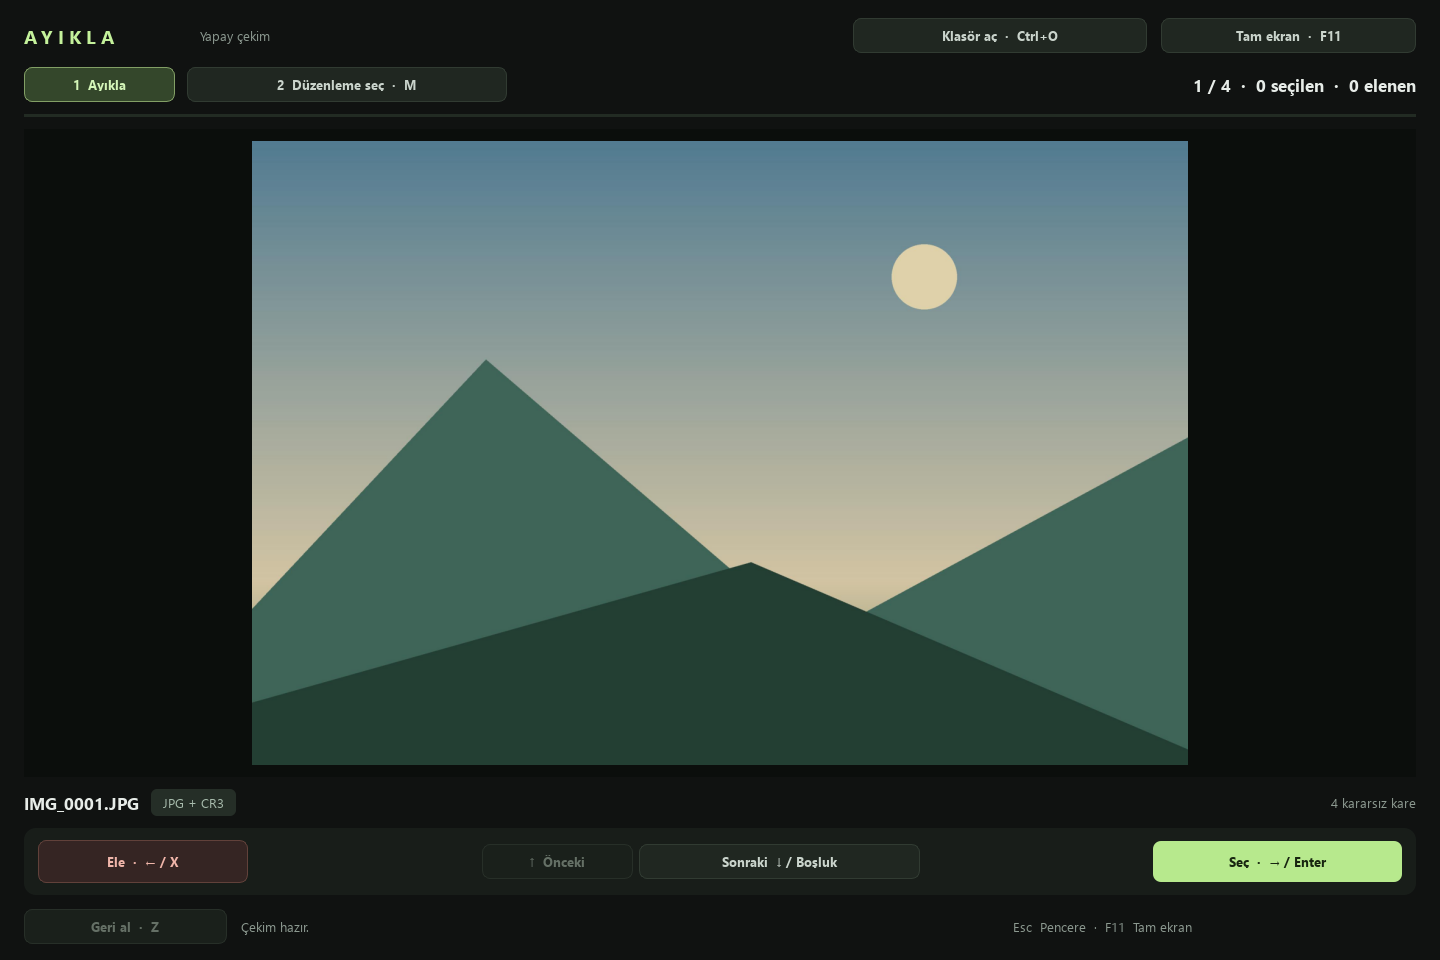
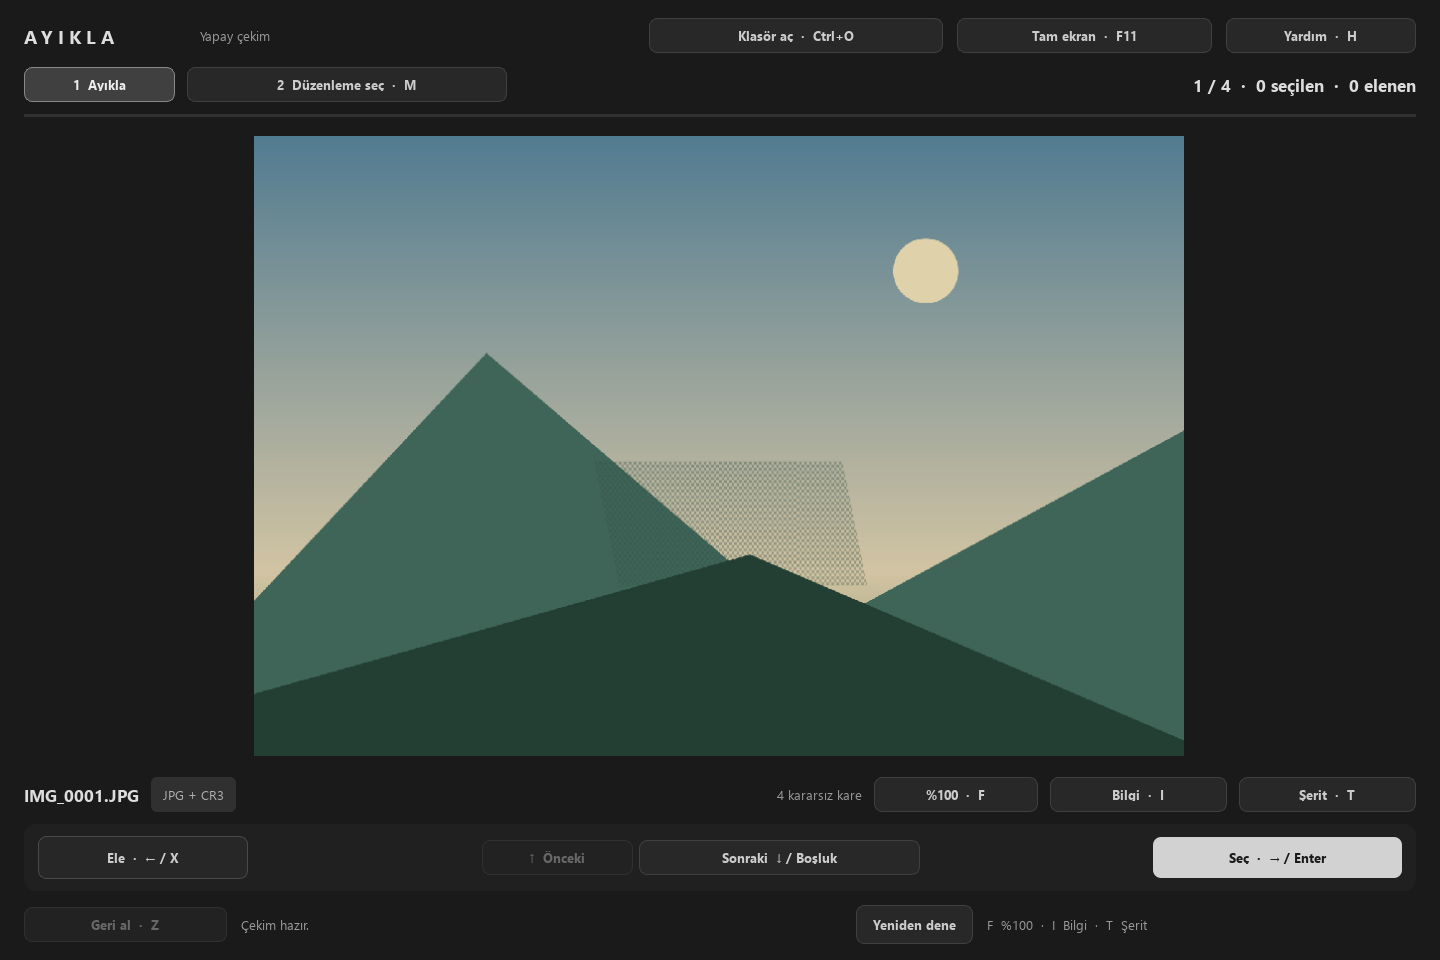
docs: publish v1.1 benchmark comparison and verified UI screenshots

diff --git a/RAPOR.md b/RAPOR.md
@@ -1,25 +1,47 @@
-# Ayikla V1 — teslim raporu
+# Ayikla 1.1 — sonuç ve ölçümler
 
-25 Ekim 2026 · Windows x64 · Python 3.12.10 · PySide6 6.12.0 · PyInstaller 6.22.3
+25 Ekim 2026 · Windows 11 x64 · Python 3.12.10 · PySide6 6.12.0 · Pillow 12.3.0
 
-**Çalışanlar:** Tam ekran Türkçe galeri; klasör seçimi; EXIF yönü; arka planda önceki/sonraki JPEG ön yükleme; sayaçlar; JPG/CR3 çiftini seçme/eleme; tam dosya adını ve yolunu geri getiren Z; 2. turda düzenleme kopyası açma/kaldırma; CR3'süz fotoğraf rozeti. Son tur ve bakılan kare yeniden açılışta korunur.
+**Teslim:** `dist\Ayikla\Ayikla.exe`, yanındaki `_internal\` ve `MasaustuKisayolu.ps1`. Klasörün tamamı birlikte taşınır; Python kurulumu gerekmez. Yerel git deposu, remote yok.
 
-**Güvenlik:** İki dosyanın hedefi de işlemden önce kontrol edilir. Windows taşıma çağrısı yarış durumunda da mevcut hedefin üzerine yazmaz. Günlük, dosyalara dokunmadan önce diske yazılıp senkronlanır; yarım işlem yeniden açılışta tamamlanır. Aynı çekime ikinci yazıcı kilitlenir. Bozuk günlük veya dışarıdan değişmiş dosya varsa işlem durur.
+## V1 → V1.1 benchmark
 
-**Silme yok:** `_red\` boşaltılmaz. E ile kaldırılan ve Z ile geri alınan düzenleme kopyaları `.ayikla_saklanan\` altına taşınır. Yarım kalmış kopyalar da korunur. Bu ek klasör bilinçli olarak tutulur; geri alma için günlükle birlikte saklanmalıdır.
+300 çift: her JPEG **6000×4000, ortalama 8.303.674 bayt (8,30 MB)**; CR3'ler 70 KB yapay dosyalar. Dört sabit tohumlu RGB gürültü tabanı, 300 ayrı EXIF zamanı; dosya boyutunu şişirmek için dolgu kullanılmadı. Her açılış için ayrı çekim dizini; testler yalnızca `.tmp\benchmark\` içinde. Veri seti yaklaşık 2,5 GB ve tekrar ölçüm için korunuyor.
 
-**Doğrulama:** `pytest`: **44 geçti**. Testler yalnızca proje içindeki `.tmp\` altında üretilen dosyaları kullandı. Kapsam: harf duyarsız eşleme, seç/ele/geri al, edit aç/kapat, yeniden açılış, eksik RAW, hedef çakışması ve yarış durumu, değişmiş kopya, sekiz EXIF yönü, klavye akışı, taşıma/kopyalama/geri almanın ortasında kesilme, günlük yazma hatası ve yarım günlük satırı onarımı.
+Aynı bilgisayar, 1440×960 / DPR 1, Qt offscreen, film şeridi kapalı. Açılış: klasör seçimi → ilk karenin tamamlanmış çizimi (3 örnek). Geçiş: yönlendirme → tamamlanmış çizim (20 örnek). “Önbelleksiz”, uygulama görüntü ön belleğinin boş olmasıdır; Windows disk ön belleği temizlenmedi. Paket açılışı ilk Qt boyama olayına kadar, 5 ayrı süreçle ölçüldü; her iki sürümde aynı küçük ölçüm kancası kullanıldı.
 
-Üretilen **`dist\Ayikla.exe`**, Python ve proje kaynakları arama yolundan çıkarılarak ayrıca çalıştırıldı: galeri, seç/ele, eksik RAW, Z, E, kopyayı silmeden kaldırma, günlüğü yeniden açma ve kalıcı geri alma geçti. Test başsız Qt ile yapıldı. Ayrıntı: [doğrulama kaydı](docs/verification.json), [arayüz görüntüsü](docs/arayuz.png).
+| Ölçüm | V1 | V1.1 | Hedef / sonuç |
+|---|---:|---:|---|
+| Klasör → ilk kare, medyan | 276,25 ms | 245,72 ms | <1500 ms ✓ |
+| Ön yüklenmiş sonraki kare, medyan | 121,95 ms | **4,97 ms** | <80 ms ✓ |
+| Ön yüklenmiş kare, P95 | 159,24 ms | **7,81 ms** | <80 ms ✓ |
+| Önbelleksiz kare, medyan / P95 | 259,14 / 360,54 ms | 136,89 / 214,09 ms | Medyan %47 azaldı |
+| snapshot(), medyan | 73,67 ms | <0,01 ms | Dosya sistemi taraması yok |
+| Seç kararı, medyan | 88,26 ms | 26,26 ms | Günlük ve taşıma dahil |
+| RAM: gezinme sonu / süreç tepesi | 84,57 / 103,23 MiB | 69,51 / 114,83 MiB | <600 MB ✓ |
+| RAM: %100 zoom süreç tepesi | Yok | **163,44 MiB** | Yaklaşık 171 MB; hedef içinde |
+| Paket açılışı, medyan / P95 | 1098,65 / 1548,85 ms | **213,39 / 227,34 ms** | Medyan %81 azaldı |
+| Dağıtılan paket, disk boyutu | 45,33 MB, onefile | **65,78 MB, onedir** | Sıkıştırılmış exe ile açık klasör farklı |
+| Açılmış runtime dosyaları | 113,05 MB, geçici çıkarım | **63,19 MB, kalıcı** | Yaklaşık %44 daha az |
 
-**Paket:** Tek `.exe`, 45.325.045 bayt (~45,3 MB); Python kurulumu gerekmez. SHA-256:
+RAM, Windows GetProcessMemoryInfo ile ölçülen çalışma kümesidir; süreç tepesi önceki açılış/geçişleri de içerir. Zoom yalnızca V1.1'de vardır. Dağıtım boyutu onedir'de büyür; çalışırken V1'in açtığı geçici runtime artık gerekmez. Son exe 2.587.758 bayttır; tek başına dağıtılmaz. Pakette Qt Core/Gui/Widgets ve qjpeg/qico/qwindows/qoffscreen vardır; WebEngine, QML, Quick, PDF, Network, SVG bağımlılıkları ve kullanılmayan yazılım OpenGL DLL'i çıkarıldı.
 
-```text
[1 lines of base64/hex data omitted]
-```
+Ham sonuçlar: [V1](docs/benchmark/v1.json), [V1.1](docs/benchmark/v1.1.json), [V1 paket](docs/benchmark/v1-package.json), [V1.1 paket](docs/benchmark/v1.1-package.json), [veri seti](docs/benchmark/dataset.json).
 
-**Sınırlar:** Gerçek R50 fotoğrafları kullanılmadı; gerçek çekimde hız, monitör renk doğruluğu ve Lightroom/tablet akışı doğrulanmadı. CR3 içeriği çözülmez; dosya olarak taşınır/kopyalanır. Lightroom'a `02_edit\` içeri aktarma ve tablet senkronu kullanıcıya aittir. Alt klasörler taranmaz. Aynı gövde adına sahip birden fazla JPEG belirsizse klasör açılışı durur. Yerel Windows 10/11 x64 hedeflenir; başka Windows bilgisayarda denenmedi. Paket imzasızdır.
+## Çalışanlar ve doğrulama
 
-**Sonraki adımlar (uygulanmadı):** Seri/burst gruplama, yıldızlar, XMP, bulanıklık tespiti, film taramaları, ev sunucusuna arşivleme.
+**81 pytest testi geçti; önceki 44 testin tamamı korundu.** Yeni testler: indeksin tarama yapmadan güncellenmesi; Retry/çakışma taraması; bayt bazlı LRU; 2 ileri + 1 geri ön yükleme; ölçekli/yönlendirilmiş decode; tam çözünürlük ve pan; EXIF'i piksel çözmeden okuma; seri sınırları; film şeridi durumları/tıklama; solan bilgi ve bildirim; yardım; tur özeti/Explorer düğmesi; beş son klasör; pencere/tam ekran; Türkçe hatalar; kısayolda üzerine yazmama; yeniden paketlemede eski dosyaları koruma/geri dönme. [Test kaydı](docs/test-results.xml).
 
-Tüm kaynak, bağımlılık ortamı, test dosyaları ve çıktılar `Ayikla\` içinde; bağımsız yerel git deposu, remote yok. Büyük geliştirme ortamı `.tools\`, geçici dosyalar `.tmp\` ve üretilen `dist\` git dışında tutulur; kaynaklar ve paketleme tarifi depodadır.
+**Üretilen exe iki ayrı Qt arka ucunda geçti:** offscreen ve gerçek Windows eklentisi. Windows denemesinde pencere ekrana çıkarılmadı. Python ve proje kaynakları süreç arama yolundan çıkarıldı. Hızlı klavye akışındaki okuyucu/taşıma çakışması aynı dosyaya erişim kilidiyle giderildi. [Paket testi](docs/verification.json), [Windows eklentisi testi](docs/verification-windows.json).
+
+**Güvenlik korunuyor:** Önce senkron günlük, sonra dosya işlemi. Hedefin üzerine atomik taşıma çağrısında da yazılmaz. Z tam yolları geri getirir; E ile kaldırılan kopyalar silinmeden `.ayikla_saklanan\` içine taşınır. `_red\` boşaltılmaz. Ayarlar ayrı, sona eklenen günlükte tutulur. Build de önceki paketi silmeden `.tmp\replaced-builds\` içine taşır.
+
+**Görüntüler:** [Galeri](docs/gallery.png) · [%100 zoom](docs/zoom.png) · [EXIF](docs/info.png) · [Film şeridi](docs/filmstrip.png) · [Tur sonu](docs/end.png). Tamamı yapay 24 MP sahneyle, teslim edilen exe'den alındı.
+
+## Sınırlar ve sonraki öneriler
+
+Gerçek R50 çekimi, SD kart/harici disk hızı, monitör renk doğruluğu ve Lightroom/tablet senkronu denenmedi. Süreler bu bilgisayardaki başsız ölçümlerdir; Windows disk ön belleği ve sistem yükü kontrol edilmedi. CR3 çözülmez. Lens/çekim bilgisi eksikse “—”; saat yanlışsa seri ipucu da etkilenir. Seri ipucu, zaman sıralı ardışık kareler arasındaki ≤1 saniye farkını kullanır; grup arayüzü yoktur. EXIF paneli 1,5 s sonra soluklaşır, yardım okunabilmesi için açık kalır. Dışarıdan değişiklikler otomatik izlenmez; Yeniden dene ile taranır. Paket imzasızdır; başka Windows bilgisayarda denenmedi. Masaüstü kısayolu betiği yalnızca geçici test dizininde çalıştırıldı.
+
+**Uygulanmadı:** Yıldız, XMP, bulanıklık tespiti, film taraması, sunucu arşivi ve seri gruplama arayüzü.
+
+**Ek öneriler (yalnızca öneri):** Gerçek bir R50 çekimiyle kısa kabul testi; ICC/renk yönetimini kalibre monitörde kontrol; yüksek DPI/ikinci monitör testi; uzun gerçek çekimde bağımsız yedek ve günlük büyümesi denemesi.

diff --git a/README.md b/README.md
@@ -1,26 +1,44 @@
-# Ayikla
+# Ayikla 1.1
 
 Canon RAW+JPEG çekimlerini iki turda ayıklar. **Windows x64 · Python 3.12 · PySide6.**
 
-**Başlat:** `dist\Ayikla.exe` dosyasına çift tıkla, **Çekim klasörü seç**. Python kurulumu gerekmez. Uygulama tam ekran açılır; F11 veya Esc ile pencereye dönülür.
+**Başlat:** `dist\Ayikla\Ayikla.exe`. Python kurulumu gerekmez. **Ayikla klasörünü içindeki `_internal\` ile birlikte taşı; exe tek başına çalışmaz.** Çekim klasörünü seç veya açılıştaki son beş klasörden birine tıkla. Pencere/tam ekran durumu hatırlanır.
+
+Masaüstü kısayolu için proje kökünde çalıştır (mevcut kısayolun üzerine yazmaz):
+
+```powershell
+powershell -NoProfile -ExecutionPolicy Bypass -File ".\dist\Ayikla\MasaustuKisayolu.ps1"
+```
 
 | Tuş | İşlev |
 |---|---|
-| → / Enter | 1. tur: seç; JPG + eşleşen CR3 → `01_secilen\` |
+| → / Enter | 1. tur: seç; JPG + varsa CR3 → `01_secilen\` |
 | ← / X | 1. tur: ele; çift → `_red\` |
-| Boşluk / ↓ | Karar vermeden sonraki fotoğraf |
-| ↑ | Karar vermeden önceki fotoğraf |
-| Z | Son kararı geri al; uygulama kapandıktan sonra da çalışır |
+| Boşluk / ↓ | Karar vermeden sonraki kare; 2. turun sonunda özet |
+| ↑ | Karar vermeden önceki kare |
+| Z | Son kararı geri al; uygulama yeniden açılınca da çalışır |
 | M | 1. tur / 2. tur arasında geçiş |
-| E | 2. tur: JPG + varsa CR3 → `02_edit\` kopyala; tekrar E ile seçimi kaldır |
+| E | 2. tur: JPG + CR3'ü `02_edit\` içine kopyala; tekrar E ile seçimi kaldır |
+| F | %100 odak kontrolü / ekrana sığdır |
+| Sol tuşla sürükle | %100 görünümde kaydır |
+| I | Dosya adı, çekim saati, enstantane, diyafram, ISO, odak uzaklığı ve lens |
+| T | Film şeridini göster/gizle; küçük fotoğrafa tıklayarak git |
+| H / ? | Klavye yardımını göster/gizle |
 | Ctrl+O | Başka çekim klasörü aç |
-| F11 / Esc | Tam ekranı değiştir / pencereye dön |
+| F11 | Tam ekranı değiştir |
+| Esc | Önce yardımı, sonra yakınlaştırmayı kapat; ardından pencereye dön |
 
-`02_edit\` içeriğini Lightroom Classic'e içe aktar. 1. tur yalnızca henüz karar verilmemiş JPEG'leri, 2. tur `01_secilen\` içindekileri gösterir. CR3'süz JPEG de işlenir; sarı rozetle belirtilir. Alt klasörler taranmaz; `.JPG` ve `.JPEG` desteklenir. Eşleşme aynı klasörde, dosya gövde adına göre ve harf duyarsız yapılır.
+Film şeridi: **yeşil = seçilen, kırmızı = elenen, mor = edit seçimi**. Elenen kare yalnızca önizlenir; karar tuşları devre dışıdır. EXIF saatleri ardışık olarak en fazla 1 saniye aralıktaysa **Seri 2/5** ipucu görünür. EXIF yoksa alanlar “—” olur.
 
-**Dosya güvenliği:** Üzerine yazılmaz, hiçbir fotoğraf silinmez; `_red\` boşaltılmaz. E ile kaldırılan veya Z ile geri alınan düzenleme kopyaları `.ayikla_saklanan\` içinde saklanır. Bu klasör zamanla büyüyebilir. `ayikla_log.jsonl` kararları, tam dosya yollarını ve son bakılan kareyi tutar; taşımalar yarıda kalırsa bir sonraki açılışta tamamlanır. Günlüğü ve `.ayikla_saklanan\` klasörünü sakla. Hedef çakışması varsa dosyalar korunur; çakışmayı giderip **Yeniden dene** veya klasörü yeniden aç. Günlük yazma hatasında uygulamayı yeniden başlat.
+Seri/zoom etiketi ve işlem bildirimi 1,5 saniye sonra solar. Bilgi paneli soluklaşır; I veya fare hareketiyle yeniden belirginleşir. Yardım açık kalır. Normal görünüm ve küçük fotoğraflar ölçekli çözülür; tam çözünürlük yalnızca F ile yüklenir.
 
-Geliştirme (PowerShell, proje klasöründe):
+Tur sonunda sayılar, **2. tura geç** ve **02_edit klasörünü Explorer'da aç** düğmeleri görünür. Lightroom Classic'e `02_edit\` içeriğini kendin içe aktar. CR3'süz JPEG uyarı rozetiyle işlenir. Alt klasörler taranmaz; JPG/JPEG ve harf duyarsız CR3 eşlemesi desteklenir.
+
+**Dosya güvenliği:** Fotoğraf silinmez, üzerine yazılmaz; `_red\` boşaltılmaz. Kaldırılan edit kopyaları `.ayikla_saklanan\` içine taşınır. Bu klasörü ve `ayikla_log.jsonl` günlüğünü sakla. İşlem önce günlüğe yazılır; yarıda kalırsa açılışta tamamlanır. **Yeniden dene** yarım işlemi tamamlar ve klasörü yeniden tarar; dışarıdan eklenen dosyalar için de bu düğmeyi kullan. Günlük yazma hatasında disk sorununu giderip uygulamayı yeniden aç.
+
+Son klasörler ve pencere ayarı ayrı, yalnızca sona eklenen `ayikla_settings.jsonl` dosyasında tutulur: exe yanında; Python ile çalıştırırken proje kökünde.
+
+Geliştirme (PowerShell, proje kökünde):
 
 ```powershell
 py -3.12 -m venv .venv
@@ -31,6 +49,6 @@ py -3.12 -m venv .venv
 .\.venv\Scripts\python.exe scripts\verify_frozen.py
 ```
 
-Bu bilgisayarda proje içindeki `.tools\python312\tools\python.exe` de hazırdır; `run.ps1` ve `build.ps1` bunu otomatik bulur. Build `dist\Ayikla.exe` üretir. Kaynak/testler yerel git deposundadır; remote yoktur.
+Bu bilgisayarda `.tools\python312\tools\python.exe` de hazırdır; betikler otomatik bulur. Build önce yeni bir klasör oluşturur; önceki paketi silmeden `.tmp\replaced-builds\` içine taşır ve taşınabilir ayarını yeni pakete kopyalar. Yerel git deposu, remote yok.
 
-Paket doğrulaması yalnızca `.tmp\` altında yeni, yapay çekim oluşturur; sonucu `docs\verification.json` içine yazar. Pillow yalnızca test görselleri ve EXIF örnekleri üretmek için kullanılır; uygulamaya dahil değildir.
+Ölçümleri tekrarlamak için `scripts\benchmark.py generate`, ardından `measure <etiket>` ve `startup <etiket> <exe-yolu>` kullan. Generate yalnızca proje içindeki `.tmp\benchmark\` altında yaklaşık 2,5 GB yapay veri üretir. [Ölçümler ve sınırlar](RAPOR.md).
